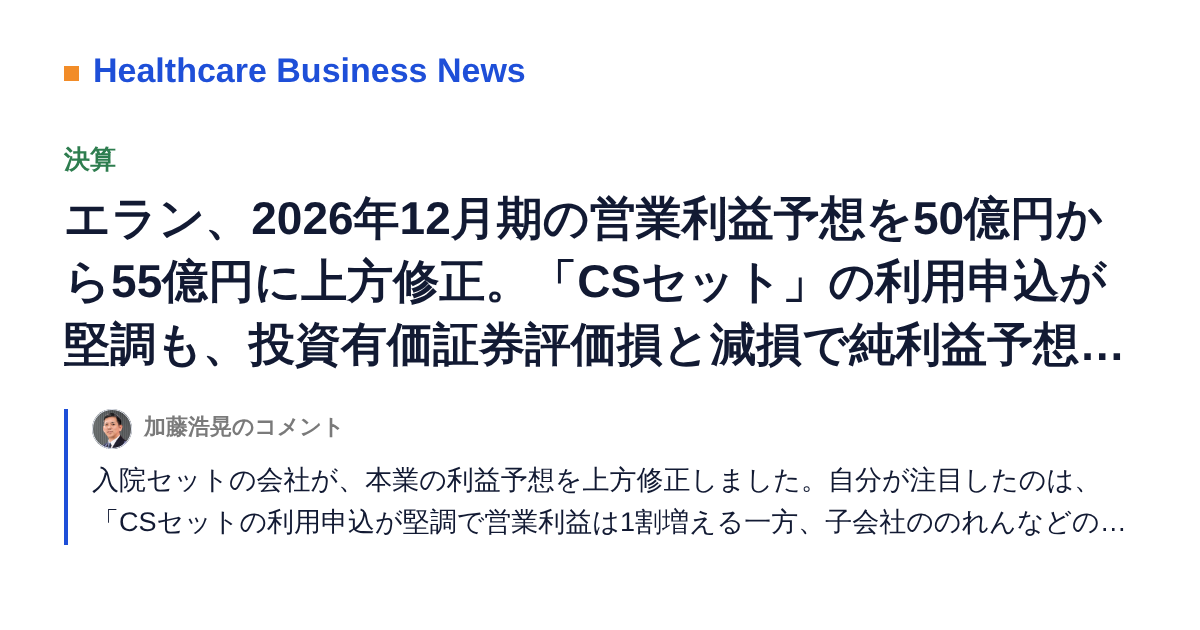
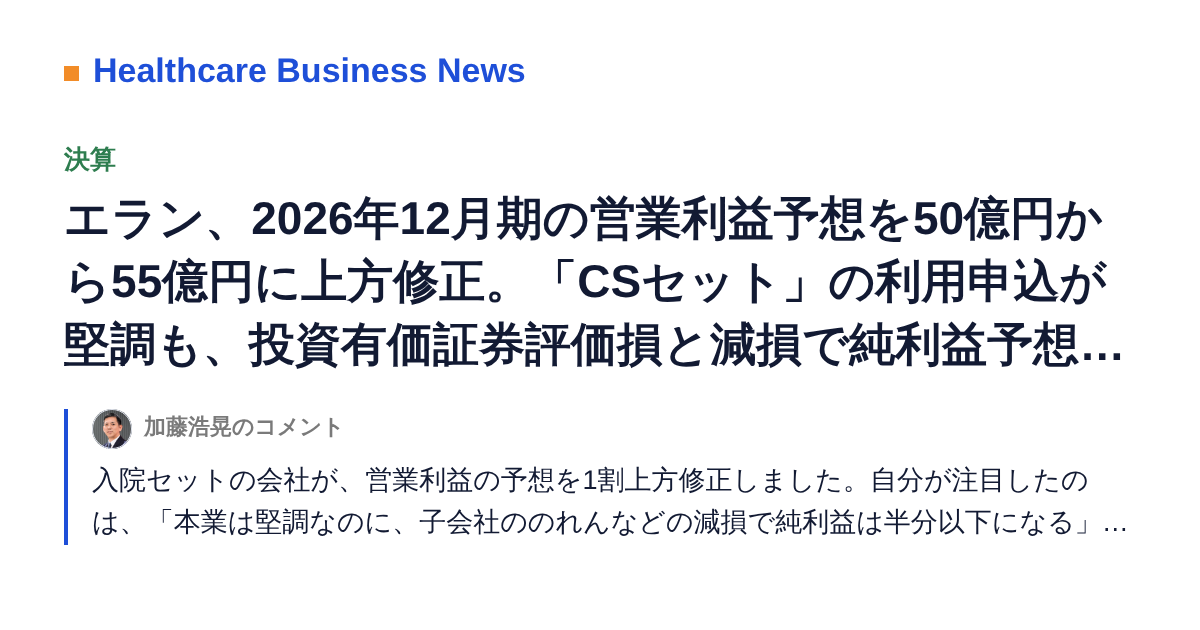
Web: 記事のリンク用カードを更新

Changed region(s): [[0.0617, 0.7238, 0.925, 0.8444]]

diff --git a/article/85dbaeb9-2527-4f65-85ea-9c53b2ee8cb7.html b/article/85dbaeb9-2527-4f65-85ea-9c53b2ee8cb7.html
@@ -447,4 +447,4 @@ input::-webkit-search-cancel-button,input::-webkit-search-decoration,input::-web
 @keyframes r-1pzkwqh{0%{transform:translateY(100%);}100%{transform:translateY(0%);}}
 @keyframes r-imtty0{0%{opacity:0;}100%{opacity:1;}}
 @keyframes r-q67da2{0%{transform:translateX(-100%);}100%{transform:translateX(400%);}}
-@keyframes r-t2lo5v{0%{opacity:1;}100%{opacity:0;}}</style><link rel="stylesheet" href="/healthbiz-news/_expo/static/css/native-tabs.module-78b0f59737571f455720970791a36bdd.css"/><link rel="stylesheet" href="/healthbiz-news/_expo/static/css/global-313a0104f747083fa8b83096f125922a.css"/><link rel="manifest" href="/healthbiz-news/manifest.json"><meta name="apple-mobile-web-app-capable" content="yes"><meta name="mobile-web-app-capable" content="yes"><meta name="apple-mobile-web-app-status-bar-style" content="default"><meta name="apple-mobile-web-app-title" content="HB News"><link rel="apple-touch-icon" href="/healthbiz-news/apple-touch-icon.png"><meta name="theme-color" content="#1E4FD8"><style>.hb-topband{display:none}@media (display-mode: standalone){.hb-topband{display:block;position:fixed;top:0;left:0;right:0;height:12px;background:#FFFFFF;z-index:2147483647;pointer-events:none}}@media (display-mode: standalone) and (prefers-color-scheme: dark){.hb-topband{background:#111214}}</style><script async src="https://www.googletagmanager.com/gtag/js?id=G-PYC7DZRBKW"></script><script>window.dataLayer=window.dataLayer||[];function gtag(){dataLayer.push(arguments);}window.gtag=gtag;gtag('js',new Date());gtag('config','G-PYC7DZRBKW',{send_page_view:false,anonymize_ip:true});</script><title>エラン、2026年12月期の営業利益予想を50億円から55億円に上方修正。「CSセット」の利用申込が堅調も、投資有価証券評価損と減損で純利益予想は32億円から15億円に下げる｜Healthcare Business News</title><meta name="description" content="入院セットの会社が、本業の利益予想を上方修正しました。自分が注目したのは、「CSセットの利用申込が堅調で営業利益は1割増える一方、子会社ののれんなどの減損で純利益は半分以下になる」ところです。本業は施設と患者の両方から選"><meta property="og:type" content="article"><meta property="og:site_name" content="Healthcare Business News"><meta property="og:title" content="エラン、2026年12月期の営業利益予想を50億円から55億円に上方修正。「CSセット」の利用申込が堅調も、投資有価証券評価損と減損で純利益予想は32億円から15億円に下げる"><meta property="og:description" content="入院セットの会社が、本業の利益予想を上方修正しました。自分が注目したのは、「CSセットの利用申込が堅調で営業利益は1割増える一方、子会社ののれんなどの減損で純利益は半分以下になる」ところです。本業は施設と患者の両方から選"><meta property="og:url" content="https://hirokato-med.github.io/healthbiz-news/article/85dbaeb9-2527-4f65-85ea-9c53b2ee8cb7"><meta property="og:image" content="https://hirokato-med.github.io/healthbiz-news/og/85dbaeb9-2527-4f65-85ea-9c53b2ee8cb7.png?v=9a640481ff9f"><meta property="og:image:width" content="1200"><meta property="og:image:height" content="630"><meta name="twitter:card" content="summary_large_image"></head><body><div id="root"><!--$--><div class="css-g5y9jx r-13awgt0"><!--$--><div style="position:absolute;left:0;right:0;top:0;bottom:0;pointer-events:none;visibility:hidden"></div><div class="css-g5y9jx r-13awgt0"><div class="css-g5y9jx r-13awgt0 r-1p0dtai r-1d2f490 r-u8s1d r-zchlnj r-ipm5af" style="background-color:rgba(242,242,242,1.00);display:flex"><div class="css-g5y9jx r-13awgt0"><div class="css-g5y9jx r-13awgt0"><!--$--><div style="position:absolute;left:0;right:0;top:0;bottom:0;pointer-events:none;visibility:hidden"></div><div class="css-g5y9jx r-13awgt0" style="flex-direction:column"><div class="css-g5y9jx r-13awgt0 r-1udh08x"><div class="css-g5y9jx r-1p0dtai r-1d2f490 r-u8s1d r-zchlnj r-ipm5af" style="z-index:0"><div class="css-g5y9jx r-13awgt0" style="background-color:rgba(242,242,242,1.00)"><div class="css-g5y9jx r-13awgt0"><!--$--><div class="css-g5y9jx r-13awgt0" style="background-color:rgba(255,255,255,1.00)"><div class="css-g5y9jx" style="padding-top:18px"><div class="css-g5y9jx"><div class="css-g5y9jx r-1awozwy r-18u37iz r-1wtj0ep r-iphfwy r-3pj75a"><div class="css-g5y9jx"><div dir="auto" class="css-146c3p1 r-b88u0q r-hbpseb r-1i10wst" style="color:rgba(18,26,51,1.00);font-family:var(--font-sans)">Healthcare Business News</div><div dir="auto" class="css-146c3p1 r-1gkfh8e r-1f529hi" style="color:rgba(122,122,122,1.00);font-family:var(--font-sans)">加藤浩晃のヘルスケアビジネスニュース</div></div><div class="css-g5y9jx r-obd0qt r-ojf8lh"><div dir="auto" class="css-146c3p1 r-1enofrn r-1cwl3u0 r-1ghxqbu" style="color:rgba(122,122,122,1.00);font-family:var(--font-sans)">11月14日（土）</div><button aria-label="記事を検索" role="button" tabindex="0" class="css-g5y9jx r-1loqt21 r-1otgn73 r-kdyh1x r-cnw61z r-is05cd" style="background-color:rgba(242,245,253,1.00);opacity:1" type="button"><div dir="auto" class="css-146c3p1 r-1enofrn r-1cwl3u0" style="font-family:var(--font-sans);color:rgba(30,79,216,1.00);font-weight:700">🔍 検索</div></button></div></div><div class="css-g5y9jx r-150rngu r-18u37iz r-1wbh5a2 r-lltvgl r-buy8e9 r-agouwx r-qklmqi r-18kxxzh r-2eszeu" style="border-bottom-color:rgba(227,231,240,1.00)"><div class="css-g5y9jx r-18u37iz r-is05cd"><div role="tab" tabindex="0" class="css-g5y9jx r-1loqt21 r-1otgn73 r-1cmwbt1 r-3o4zer r-ttdzmv"><div dir="auto" class="css-146c3p1 r-a023e6 r-rjixqe" style="font-family:var(--font-sans);color:rgba(30,79,216,1.00);font-weight:700">トップ</div><div class="css-g5y9jx r-1iymjk7 r-s2skl2 r-1hlnpa" style="background-color:rgba(30,79,216,1.00)"></div></div><div role="tab" tabindex="0" class="css-g5y9jx r-1loqt21 r-1otgn73 r-1cmwbt1 r-3o4zer r-ttdzmv"><div dir="auto" class="css-146c3p1 r-a023e6 r-rjixqe" style="font-family:var(--font-sans);color:rgba(122,122,122,1.00);font-weight:500">医療機器</div><div class="css-g5y9jx r-1iymjk7 r-s2skl2 r-1hlnpa" style="background-color:rgba(0,0,0,0.00)"></div></div><div role="tab" tabindex="0" class="css-g5y9jx r-1loqt21 r-1otgn73 r-1cmwbt1 r-3o4zer r-ttdzmv"><div dir="auto" class="css-146c3p1 r-a023e6 r-rjixqe" style="font-family:var(--font-sans);color:rgba(122,122,122,1.00);font-weight:500">ウェアラブル</div><div class="css-g5y9jx r-1iymjk7 r-s2skl2 r-1hlnpa" style="background-color:rgba(0,0,0,0.00)"></div></div><div role="tab" tabindex="0" class="css-g5y9jx r-1loqt21 r-1otgn73 r-1cmwbt1 r-3o4zer r-ttdzmv"><div dir="auto" class="css-146c3p1 r-a023e6 r-rjixqe" style="font-family:var(--font-sans);color:rgba(122,122,122,1.00);font-weight:500">ロンジェビティ</div><div class="css-g5y9jx r-1iymjk7 r-s2skl2 r-1hlnpa" style="background-color:rgba(0,0,0,0.00)"></div></div><div role="tab" tabindex="0" class="css-g5y9jx r-1loqt21 r-1otgn73 r-1cmwbt1 r-3o4zer r-ttdzmv"><div dir="auto" class="css-146c3p1 r-a023e6 r-rjixqe" style="font-family:var(--font-sans);color:rgba(122,122,122,1.00);font-weight:500">製薬・創薬</div><div class="css-g5y9jx r-1iymjk7 r-s2skl2 r-1hlnpa" style="background-color:rgba(0,0,0,0.00)"></div></div><div role="tab" tabindex="0" class="css-g5y9jx r-1loqt21 r-1otgn73 r-1cmwbt1 r-3o4zer r-ttdzmv"><div dir="auto" class="css-146c3p1 r-a023e6 r-rjixqe" style="font-family:var(--font-sans);color:rgba(122,122,122,1.00);font-weight:500">デジタルヘルス</div><div class="css-g5y9jx r-1iymjk7 r-s2skl2 r-1hlnpa" style="background-color:rgba(0,0,0,0.00)"></div></div><div role="tab" tabindex="0" class="css-g5y9jx r-1loqt21 r-1otgn73 r-1cmwbt1 r-3o4zer r-ttdzmv"><div dir="auto" class="css-146c3p1 r-a023e6 r-rjixqe" style="font-family:var(--font-sans);color:rgba(122,122,122,1.00);font-weight:500">医療DX</div><div class="css-g5y9jx r-1iymjk7 r-s2skl2 r-1hlnpa" style="background-color:rgba(0,0,0,0.00)"></div></div><div role="tab" tabindex="0" class="css-g5y9jx r-1loqt21 r-1otgn73 r-1cmwbt1 r-3o4zer r-ttdzmv"><div dir="auto" class="css-146c3p1 r-a023e6 r-rjixqe" style="font-family:var(--font-sans);color:rgba(122,122,122,1.00);font-weight:500">ヘルスケアサービス</div><div class="css-g5y9jx r-1iymjk7 r-s2skl2 r-1hlnpa" style="background-color:rgba(0,0,0,0.00)"></div></div><div role="tab" tabindex="0" class="css-g5y9jx r-1loqt21 r-1otgn73 r-1cmwbt1 r-3o4zer r-ttdzmv"><div dir="auto" class="css-146c3p1 r-a023e6 r-rjixqe" style="font-family:var(--font-sans);color:rgba(122,122,122,1.00);font-weight:500">政策・規制</div><div class="css-g5y9jx r-1iymjk7 r-s2skl2 r-1hlnpa" style="background-color:rgba(0,0,0,0.00)"></div></div><div role="tab" tabindex="0" class="css-g5y9jx r-1loqt21 r-1otgn73 r-1cmwbt1 r-3o4zer r-ttdzmv"><div dir="auto" class="css-146c3p1 r-a023e6 r-rjixqe" style="font-family:var(--font-sans);color:rgba(122,122,122,1.00);font-weight:500">決算</div><div class="css-g5y9jx r-1iymjk7 r-s2skl2 r-1hlnpa" style="background-color:rgba(0,0,0,0.00)"></div></div><div role="tab" tabindex="0" class="css-g5y9jx r-1loqt21 r-1otgn73 r-1cmwbt1 r-3o4zer r-ttdzmv"><div dir="auto" class="css-146c3p1 r-a023e6 r-rjixqe" style="font-family:var(--font-sans);color:rgba(122,122,122,1.00);font-weight:500">海外</div><div class="css-g5y9jx r-1iymjk7 r-s2skl2 r-1hlnpa" style="background-color:rgba(0,0,0,0.00)"></div></div><div role="tab" tabindex="0" class="css-g5y9jx r-1loqt21 r-1otgn73 r-1cmwbt1 r-3o4zer r-ttdzmv"><div dir="auto" class="css-146c3p1 r-a023e6 r-rjixqe" style="font-family:var(--font-sans);color:rgba(122,122,122,1.00);font-weight:500">メルマガ</div><div class="css-g5y9jx r-1iymjk7 r-s2skl2 r-1hlnpa" style="background-color:rgba(0,0,0,0.00)"></div></div></div></div></div><button aria-label="記事を更新" role="button" tabindex="0" class="css-g5y9jx r-1loqt21 r-1otgn73 r-1yd117h r-3pj75a" style="background-color:rgba(242,245,253,1.00)" type="button"><div class="css-g5y9jx r-1awozwy r-18u37iz r-1ssbvtb"><div dir="auto" class="css-146c3p1 r-dnmrzs r-1udh08x r-1udbk01 r-3s2u2q r-1iln25a r-1enofrn r-1cwl3u0" style="color:rgba(122,122,122,1.00);font-family:var(--font-sans)">最新の配信</div><div dir="auto" class="css-146c3p1 r-dnmrzs r-1udh08x r-1udbk01 r-3s2u2q r-1iln25a r-1enofrn r-1cwl3u0 r-13awgt0 r-1ghxqbu r-b88u0q" style="font-family:var(--font-sans);color:rgba(122,122,122,1.00)">読み込み中…</div><div dir="auto" class="css-146c3p1 r-dnmrzs r-1udh08x r-1udbk01 r-3s2u2q r-1iln25a r-1enofrn r-1cwl3u0 r-1ghxqbu" style="color:rgba(122,122,122,1.00);font-family:var(--font-sans)"></div></div></button></div><div class="css-g5y9jx r-13awgt0"></div></div><!--/$--></div></div></div></div><div class="css-g5y9jx r-1p0dtai r-zchlnj r-1d2f490" style="pointer-events:auto;border-top-width:1px;border-right-color:rgba(216,216,216,1.00);border-bottom-color:rgba(216,216,216,1.00);border-left-color:rgba(216,216,216,1.00);height:49px;padding-bottom:0px;padding-top:0px;padding-right:0px;padding-left:0px;background-color:rgba(255,255,255,1.00);border-top-color:rgba(227,231,240,1.00);transform:translateY(0px)"><div class="css-g5y9jx r-1p0dtai r-1d2f490 r-u8s1d r-zchlnj r-ipm5af r-633pao"></div><div role="tablist" class="css-g5y9jx r-13awgt0 r-18u37iz"><div class="css-g5y9jx r-13awgt0" style="border-top-left-radius:0px;border-top-right-radius:0px;border-bottom-right-radius:0px;border-bottom-left-radius:0px;overflow-x:visible;overflow-y:visible"><a href="/healthbiz-news/" role="tab" aria-selected="true" tabindex="0" class="css-g5y9jx r-1otgn73 r-1awozwy r-1onu96p r-eqz5dr r-1h0z5md r-1uu6nss" style="cursor:pointer;flex:1;background-color:rgba(0,0,0,0.00);border-top-left-radius:0px;border-top-right-radius:0px;border-bottom-right-radius:0px;border-bottom-left-radius:0px;opacity:1"><div class="css-g5y9jx r-h0d30l r-726pan"><div class="css-g5y9jx r-1awozwy r-1kihuf0 r-1pi2tsx r-1777fci r-u8s1d r-13qz1uu" style="opacity:1;min-width:25px"><div dir="auto" class="css-146c3p1" style="color:rgba(30,79,216,1.00);font-size:18px">▤</div></div><div class="css-g5y9jx r-1awozwy r-1kihuf0 r-1pi2tsx r-1777fci r-u8s1d r-13qz1uu" style="opacity:0"><div dir="auto" class="css-146c3p1" style="color:rgba(122,122,122,1.00);font-size:18px">▤</div></div></div><div dir="auto" class="css-146c3p1 r-dnmrzs r-1udh08x r-1udbk01 r-3s2u2q r-1iln25a r-1niwhzg r-q4m81j r-10x49cs" style="color:rgba(30,79,216,1.00);font-family:system-ui, &quot;Segoe UI&quot;, Roboto, Helvetica, Arial, sans-serif, &quot;Apple Color Emoji&quot;, &quot;Segoe UI Emoji&quot;, &quot;Segoe UI Symbol&quot;;font-weight:500">トップ</div></a></div><div class="css-g5y9jx r-13awgt0" style="border-top-left-radius:0px;border-top-right-radius:0px;border-bottom-right-radius:0px;border-bottom-left-radius:0px;overflow-x:visible;overflow-y:visible"><a href="/healthbiz-news/saved" role="tab" aria-selected="false" tabindex="0" class="css-g5y9jx r-1otgn73 r-1awozwy r-1onu96p r-eqz5dr r-1h0z5md r-1uu6nss" style="cursor:pointer;flex:1;background-color:rgba(0,0,0,0.00);border-top-left-radius:0px;border-top-right-radius:0px;border-bottom-right-radius:0px;border-bottom-left-radius:0px;opacity:1"><div class="css-g5y9jx r-h0d30l r-726pan"><div class="css-g5y9jx r-1awozwy r-1kihuf0 r-1pi2tsx r-1777fci r-u8s1d r-13qz1uu" style="opacity:0;min-width:25px"><div dir="auto" class="css-146c3p1" style="color:rgba(30,79,216,1.00);font-size:18px">☆</div></div><div class="css-g5y9jx r-1awozwy r-1kihuf0 r-1pi2tsx r-1777fci r-u8s1d r-13qz1uu" style="opacity:1"><div dir="auto" class="css-146c3p1" style="color:rgba(122,122,122,1.00);font-size:18px">☆</div></div></div><div dir="auto" class="css-146c3p1 r-dnmrzs r-1udh08x r-1udbk01 r-3s2u2q r-1iln25a r-1niwhzg r-q4m81j r-10x49cs" style="color:rgba(122,122,122,1.00);font-family:system-ui, &quot;Segoe UI&quot;, Roboto, Helvetica, Arial, sans-serif, &quot;Apple Color Emoji&quot;, &quot;Segoe UI Emoji&quot;, &quot;Segoe UI Symbol&quot;;font-weight:500">保存</div></a></div><div class="css-g5y9jx r-13awgt0" style="border-top-left-radius:0px;border-top-right-radius:0px;border-bottom-right-radius:0px;border-bottom-left-radius:0px;overflow-x:visible;overflow-y:visible"><a href="/healthbiz-news/about" role="tab" aria-selected="false" tabindex="0" class="css-g5y9jx r-1otgn73 r-1awozwy r-1onu96p r-eqz5dr r-1h0z5md r-1uu6nss" style="cursor:pointer;flex:1;background-color:rgba(0,0,0,0.00);border-top-left-radius:0px;border-top-right-radius:0px;border-bottom-right-radius:0px;border-bottom-left-radius:0px;opacity:1"><div class="css-g5y9jx r-h0d30l r-726pan"><div class="css-g5y9jx r-1awozwy r-1kihuf0 r-1pi2tsx r-1777fci r-u8s1d r-13qz1uu" style="opacity:0;min-width:25px"><div dir="auto" class="css-146c3p1" style="color:rgba(30,79,216,1.00);font-size:18px">ⓘ</div></div><div class="css-g5y9jx r-1awozwy r-1kihuf0 r-1pi2tsx r-1777fci r-u8s1d r-13qz1uu" style="opacity:1"><div dir="auto" class="css-146c3p1" style="color:rgba(122,122,122,1.00);font-size:18px">ⓘ</div></div></div><div dir="auto" class="css-146c3p1 r-dnmrzs r-1udh08x r-1udbk01 r-3s2u2q r-1iln25a r-1niwhzg r-q4m81j r-10x49cs" style="color:rgba(122,122,122,1.00);font-family:system-ui, &quot;Segoe UI&quot;, Roboto, Helvetica, Arial, sans-serif, &quot;Apple Color Emoji&quot;, &quot;Segoe UI Emoji&quot;, &quot;Segoe UI Symbol&quot;;font-weight:500">このアプリ</div></a></div></div></div></div><!--/$--></div></div></div></div><!--/$--></div><!--/$--></div><script defer="" src="/healthbiz-news/_expo/static/js/web/__expo-metro-runtime-8c088df87a31e4e6accd81c554ec290d.js"></script><script defer="" src="/healthbiz-news/_expo/static/js/web/_layout-b9aab1fa9006b441d7601c25dd7ca37c.js"></script><script defer="" src="/healthbiz-news/_expo/static/js/web/_layout-8aafe5f985152c330af6f81e3dc0b4ce.js"></script><script defer="" src="/healthbiz-news/_expo/static/js/web/index-f62bc68591a5a53b5ec6327f08ef224e.js"></script><script defer="" src="/healthbiz-news/_expo/static/js/web/__common-1efa4f8851c3c26c5733a85f7bb25840.js"></script><script defer="" src="/healthbiz-news/_expo/static/js/web/entry-9b5d24407d312d65f34d2b1d7c96e683.js"></script><script id="_R_">globalThis.__EXPO_ROUTER_HYDRATE__=true;</script><div class="hb-topband" aria-hidden="true"></div></body></html>
+@keyframes r-t2lo5v{0%{opacity:1;}100%{opacity:0;}}</style><link rel="stylesheet" href="/healthbiz-news/_expo/static/css/native-tabs.module-78b0f59737571f455720970791a36bdd.css"/><link rel="stylesheet" href="/healthbiz-news/_expo/static/css/global-313a0104f747083fa8b83096f125922a.css"/><link rel="manifest" href="/healthbiz-news/manifest.json"><meta name="apple-mobile-web-app-capable" content="yes"><meta name="mobile-web-app-capable" content="yes"><meta name="apple-mobile-web-app-status-bar-style" content="default"><meta name="apple-mobile-web-app-title" content="HB News"><link rel="apple-touch-icon" href="/healthbiz-news/apple-touch-icon.png"><meta name="theme-color" content="#1E4FD8"><style>.hb-topband{display:none}@media (display-mode: standalone){.hb-topband{display:block;position:fixed;top:0;left:0;right:0;height:12px;background:#FFFFFF;z-index:2147483647;pointer-events:none}}@media (display-mode: standalone) and (prefers-color-scheme: dark){.hb-topband{background:#111214}}</style><script async src="https://www.googletagmanager.com/gtag/js?id=G-PYC7DZRBKW"></script><script>window.dataLayer=window.dataLayer||[];function gtag(){dataLayer.push(arguments);}window.gtag=gtag;gtag('js',new Date());gtag('config','G-PYC7DZRBKW',{send_page_view:false,anonymize_ip:true});</script><title>エラン、2026年12月期の営業利益予想を50億円から55億円に上方修正。「CSセット」の利用申込が堅調も、投資有価証券評価損と減損で純利益予想は32億円から15億円に下げる｜Healthcare Business News</title><meta name="description" content="入院セットの会社が、営業利益の予想を1割上方修正しました。自分が注目したのは、「本業は堅調なのに、子会社ののれんなどの減損で純利益は半分以下になる」ところです。買収した事業の見直しが今期の課題だと思います。"><meta property="og:type" content="article"><meta property="og:site_name" content="Healthcare Business News"><meta property="og:title" content="エラン、2026年12月期の営業利益予想を50億円から55億円に上方修正。「CSセット」の利用申込が堅調も、投資有価証券評価損と減損で純利益予想は32億円から15億円に下げる"><meta property="og:description" content="入院セットの会社が、営業利益の予想を1割上方修正しました。自分が注目したのは、「本業は堅調なのに、子会社ののれんなどの減損で純利益は半分以下になる」ところです。買収した事業の見直しが今期の課題だと思います。"><meta property="og:url" content="https://hirokato-med.github.io/healthbiz-news/article/85dbaeb9-2527-4f65-85ea-9c53b2ee8cb7"><meta property="og:image" content="https://hirokato-med.github.io/healthbiz-news/og/85dbaeb9-2527-4f65-85ea-9c53b2ee8cb7.png?v=58fbdf598b25"><meta property="og:image:width" content="1200"><meta property="og:image:height" content="630"><meta name="twitter:card" content="summary_large_image"></head><body><div id="root"><!--$--><div class="css-g5y9jx r-13awgt0"><!--$--><div style="position:absolute;left:0;right:0;top:0;bottom:0;pointer-events:none;visibility:hidden"></div><div class="css-g5y9jx r-13awgt0"><div class="css-g5y9jx r-13awgt0 r-1p0dtai r-1d2f490 r-u8s1d r-zchlnj r-ipm5af" style="background-color:rgba(242,242,242,1.00);display:flex"><div class="css-g5y9jx r-13awgt0"><div class="css-g5y9jx r-13awgt0"><!--$--><div style="position:absolute;left:0;right:0;top:0;bottom:0;pointer-events:none;visibility:hidden"></div><div class="css-g5y9jx r-13awgt0" style="flex-direction:column"><div class="css-g5y9jx r-13awgt0 r-1udh08x"><div class="css-g5y9jx r-1p0dtai r-1d2f490 r-u8s1d r-zchlnj r-ipm5af" style="z-index:0"><div class="css-g5y9jx r-13awgt0" style="background-color:rgba(242,242,242,1.00)"><div class="css-g5y9jx r-13awgt0"><!--$--><div class="css-g5y9jx r-13awgt0" style="background-color:rgba(255,255,255,1.00)"><div class="css-g5y9jx" style="padding-top:18px"><div class="css-g5y9jx"><div class="css-g5y9jx r-1awozwy r-18u37iz r-1wtj0ep r-iphfwy r-3pj75a"><div class="css-g5y9jx"><div dir="auto" class="css-146c3p1 r-b88u0q r-hbpseb r-1i10wst" style="color:rgba(18,26,51,1.00);font-family:var(--font-sans)">Healthcare Business News</div><div dir="auto" class="css-146c3p1 r-1gkfh8e r-1f529hi" style="color:rgba(122,122,122,1.00);font-family:var(--font-sans)">加藤浩晃のヘルスケアビジネスニュース</div></div><div class="css-g5y9jx r-obd0qt r-ojf8lh"><div dir="auto" class="css-146c3p1 r-1enofrn r-1cwl3u0 r-1ghxqbu" style="color:rgba(122,122,122,1.00);font-family:var(--font-sans)">11月14日（土）</div><button aria-label="記事を検索" role="button" tabindex="0" class="css-g5y9jx r-1loqt21 r-1otgn73 r-kdyh1x r-cnw61z r-is05cd" style="background-color:rgba(242,245,253,1.00);opacity:1" type="button"><div dir="auto" class="css-146c3p1 r-1enofrn r-1cwl3u0" style="font-family:var(--font-sans);color:rgba(30,79,216,1.00);font-weight:700">🔍 検索</div></button></div></div><div class="css-g5y9jx r-150rngu r-18u37iz r-1wbh5a2 r-lltvgl r-buy8e9 r-agouwx r-qklmqi r-18kxxzh r-2eszeu" style="border-bottom-color:rgba(227,231,240,1.00)"><div class="css-g5y9jx r-18u37iz r-is05cd"><div role="tab" tabindex="0" class="css-g5y9jx r-1loqt21 r-1otgn73 r-1cmwbt1 r-3o4zer r-ttdzmv"><div dir="auto" class="css-146c3p1 r-a023e6 r-rjixqe" style="font-family:var(--font-sans);color:rgba(30,79,216,1.00);font-weight:700">トップ</div><div class="css-g5y9jx r-1iymjk7 r-s2skl2 r-1hlnpa" style="background-color:rgba(30,79,216,1.00)"></div></div><div role="tab" tabindex="0" class="css-g5y9jx r-1loqt21 r-1otgn73 r-1cmwbt1 r-3o4zer r-ttdzmv"><div dir="auto" class="css-146c3p1 r-a023e6 r-rjixqe" style="font-family:var(--font-sans);color:rgba(122,122,122,1.00);font-weight:500">医療機器</div><div class="css-g5y9jx r-1iymjk7 r-s2skl2 r-1hlnpa" style="background-color:rgba(0,0,0,0.00)"></div></div><div role="tab" tabindex="0" class="css-g5y9jx r-1loqt21 r-1otgn73 r-1cmwbt1 r-3o4zer r-ttdzmv"><div dir="auto" class="css-146c3p1 r-a023e6 r-rjixqe" style="font-family:var(--font-sans);color:rgba(122,122,122,1.00);font-weight:500">ウェアラブル</div><div class="css-g5y9jx r-1iymjk7 r-s2skl2 r-1hlnpa" style="background-color:rgba(0,0,0,0.00)"></div></div><div role="tab" tabindex="0" class="css-g5y9jx r-1loqt21 r-1otgn73 r-1cmwbt1 r-3o4zer r-ttdzmv"><div dir="auto" class="css-146c3p1 r-a023e6 r-rjixqe" style="font-family:var(--font-sans);color:rgba(122,122,122,1.00);font-weight:500">ロンジェビティ</div><div class="css-g5y9jx r-1iymjk7 r-s2skl2 r-1hlnpa" style="background-color:rgba(0,0,0,0.00)"></div></div><div role="tab" tabindex="0" class="css-g5y9jx r-1loqt21 r-1otgn73 r-1cmwbt1 r-3o4zer r-ttdzmv"><div dir="auto" class="css-146c3p1 r-a023e6 r-rjixqe" style="font-family:var(--font-sans);color:rgba(122,122,122,1.00);font-weight:500">製薬・創薬</div><div class="css-g5y9jx r-1iymjk7 r-s2skl2 r-1hlnpa" style="background-color:rgba(0,0,0,0.00)"></div></div><div role="tab" tabindex="0" class="css-g5y9jx r-1loqt21 r-1otgn73 r-1cmwbt1 r-3o4zer r-ttdzmv"><div dir="auto" class="css-146c3p1 r-a023e6 r-rjixqe" style="font-family:var(--font-sans);color:rgba(122,122,122,1.00);font-weight:500">デジタルヘルス</div><div class="css-g5y9jx r-1iymjk7 r-s2skl2 r-1hlnpa" style="background-color:rgba(0,0,0,0.00)"></div></div><div role="tab" tabindex="0" class="css-g5y9jx r-1loqt21 r-1otgn73 r-1cmwbt1 r-3o4zer r-ttdzmv"><div dir="auto" class="css-146c3p1 r-a023e6 r-rjixqe" style="font-family:var(--font-sans);color:rgba(122,122,122,1.00);font-weight:500">医療DX</div><div class="css-g5y9jx r-1iymjk7 r-s2skl2 r-1hlnpa" style="background-color:rgba(0,0,0,0.00)"></div></div><div role="tab" tabindex="0" class="css-g5y9jx r-1loqt21 r-1otgn73 r-1cmwbt1 r-3o4zer r-ttdzmv"><div dir="auto" class="css-146c3p1 r-a023e6 r-rjixqe" style="font-family:var(--font-sans);color:rgba(122,122,122,1.00);font-weight:500">ヘルスケアサービス</div><div class="css-g5y9jx r-1iymjk7 r-s2skl2 r-1hlnpa" style="background-color:rgba(0,0,0,0.00)"></div></div><div role="tab" tabindex="0" class="css-g5y9jx r-1loqt21 r-1otgn73 r-1cmwbt1 r-3o4zer r-ttdzmv"><div dir="auto" class="css-146c3p1 r-a023e6 r-rjixqe" style="font-family:var(--font-sans);color:rgba(122,122,122,1.00);font-weight:500">政策・規制</div><div class="css-g5y9jx r-1iymjk7 r-s2skl2 r-1hlnpa" style="background-color:rgba(0,0,0,0.00)"></div></div><div role="tab" tabindex="0" class="css-g5y9jx r-1loqt21 r-1otgn73 r-1cmwbt1 r-3o4zer r-ttdzmv"><div dir="auto" class="css-146c3p1 r-a023e6 r-rjixqe" style="font-family:var(--font-sans);color:rgba(122,122,122,1.00);font-weight:500">決算</div><div class="css-g5y9jx r-1iymjk7 r-s2skl2 r-1hlnpa" style="background-color:rgba(0,0,0,0.00)"></div></div><div role="tab" tabindex="0" class="css-g5y9jx r-1loqt21 r-1otgn73 r-1cmwbt1 r-3o4zer r-ttdzmv"><div dir="auto" class="css-146c3p1 r-a023e6 r-rjixqe" style="font-family:var(--font-sans);color:rgba(122,122,122,1.00);font-weight:500">海外</div><div class="css-g5y9jx r-1iymjk7 r-s2skl2 r-1hlnpa" style="background-color:rgba(0,0,0,0.00)"></div></div><div role="tab" tabindex="0" class="css-g5y9jx r-1loqt21 r-1otgn73 r-1cmwbt1 r-3o4zer r-ttdzmv"><div dir="auto" class="css-146c3p1 r-a023e6 r-rjixqe" style="font-family:var(--font-sans);color:rgba(122,122,122,1.00);font-weight:500">メルマガ</div><div class="css-g5y9jx r-1iymjk7 r-s2skl2 r-1hlnpa" style="background-color:rgba(0,0,0,0.00)"></div></div></div></div></div><button aria-label="記事を更新" role="button" tabindex="0" class="css-g5y9jx r-1loqt21 r-1otgn73 r-1yd117h r-3pj75a" style="background-color:rgba(242,245,253,1.00)" type="button"><div class="css-g5y9jx r-1awozwy r-18u37iz r-1ssbvtb"><div dir="auto" class="css-146c3p1 r-dnmrzs r-1udh08x r-1udbk01 r-3s2u2q r-1iln25a r-1enofrn r-1cwl3u0" style="color:rgba(122,122,122,1.00);font-family:var(--font-sans)">最新の配信</div><div dir="auto" class="css-146c3p1 r-dnmrzs r-1udh08x r-1udbk01 r-3s2u2q r-1iln25a r-1enofrn r-1cwl3u0 r-13awgt0 r-1ghxqbu r-b88u0q" style="font-family:var(--font-sans);color:rgba(122,122,122,1.00)">読み込み中…</div><div dir="auto" class="css-146c3p1 r-dnmrzs r-1udh08x r-1udbk01 r-3s2u2q r-1iln25a r-1enofrn r-1cwl3u0 r-1ghxqbu" style="color:rgba(122,122,122,1.00);font-family:var(--font-sans)"></div></div></button></div><div class="css-g5y9jx r-13awgt0"></div></div><!--/$--></div></div></div></div><div class="css-g5y9jx r-1p0dtai r-zchlnj r-1d2f490" style="pointer-events:auto;border-top-width:1px;border-right-color:rgba(216,216,216,1.00);border-bottom-color:rgba(216,216,216,1.00);border-left-color:rgba(216,216,216,1.00);height:49px;padding-bottom:0px;padding-top:0px;padding-right:0px;padding-left:0px;background-color:rgba(255,255,255,1.00);border-top-color:rgba(227,231,240,1.00);transform:translateY(0px)"><div class="css-g5y9jx r-1p0dtai r-1d2f490 r-u8s1d r-zchlnj r-ipm5af r-633pao"></div><div role="tablist" class="css-g5y9jx r-13awgt0 r-18u37iz"><div class="css-g5y9jx r-13awgt0" style="border-top-left-radius:0px;border-top-right-radius:0px;border-bottom-right-radius:0px;border-bottom-left-radius:0px;overflow-x:visible;overflow-y:visible"><a href="/healthbiz-news/" role="tab" aria-selected="true" tabindex="0" class="css-g5y9jx r-1otgn73 r-1awozwy r-1onu96p r-eqz5dr r-1h0z5md r-1uu6nss" style="cursor:pointer;flex:1;background-color:rgba(0,0,0,0.00);border-top-left-radius:0px;border-top-right-radius:0px;border-bottom-right-radius:0px;border-bottom-left-radius:0px;opacity:1"><div class="css-g5y9jx r-h0d30l r-726pan"><div class="css-g5y9jx r-1awozwy r-1kihuf0 r-1pi2tsx r-1777fci r-u8s1d r-13qz1uu" style="opacity:1;min-width:25px"><div dir="auto" class="css-146c3p1" style="color:rgba(30,79,216,1.00);font-size:18px">▤</div></div><div class="css-g5y9jx r-1awozwy r-1kihuf0 r-1pi2tsx r-1777fci r-u8s1d r-13qz1uu" style="opacity:0"><div dir="auto" class="css-146c3p1" style="color:rgba(122,122,122,1.00);font-size:18px">▤</div></div></div><div dir="auto" class="css-146c3p1 r-dnmrzs r-1udh08x r-1udbk01 r-3s2u2q r-1iln25a r-1niwhzg r-q4m81j r-10x49cs" style="color:rgba(30,79,216,1.00);font-family:system-ui, &quot;Segoe UI&quot;, Roboto, Helvetica, Arial, sans-serif, &quot;Apple Color Emoji&quot;, &quot;Segoe UI Emoji&quot;, &quot;Segoe UI Symbol&quot;;font-weight:500">トップ</div></a></div><div class="css-g5y9jx r-13awgt0" style="border-top-left-radius:0px;border-top-right-radius:0px;border-bottom-right-radius:0px;border-bottom-left-radius:0px;overflow-x:visible;overflow-y:visible"><a href="/healthbiz-news/saved" role="tab" aria-selected="false" tabindex="0" class="css-g5y9jx r-1otgn73 r-1awozwy r-1onu96p r-eqz5dr r-1h0z5md r-1uu6nss" style="cursor:pointer;flex:1;background-color:rgba(0,0,0,0.00);border-top-left-radius:0px;border-top-right-radius:0px;border-bottom-right-radius:0px;border-bottom-left-radius:0px;opacity:1"><div class="css-g5y9jx r-h0d30l r-726pan"><div class="css-g5y9jx r-1awozwy r-1kihuf0 r-1pi2tsx r-1777fci r-u8s1d r-13qz1uu" style="opacity:0;min-width:25px"><div dir="auto" class="css-146c3p1" style="color:rgba(30,79,216,1.00);font-size:18px">☆</div></div><div class="css-g5y9jx r-1awozwy r-1kihuf0 r-1pi2tsx r-1777fci r-u8s1d r-13qz1uu" style="opacity:1"><div dir="auto" class="css-146c3p1" style="color:rgba(122,122,122,1.00);font-size:18px">☆</div></div></div><div dir="auto" class="css-146c3p1 r-dnmrzs r-1udh08x r-1udbk01 r-3s2u2q r-1iln25a r-1niwhzg r-q4m81j r-10x49cs" style="color:rgba(122,122,122,1.00);font-family:system-ui, &quot;Segoe UI&quot;, Roboto, Helvetica, Arial, sans-serif, &quot;Apple Color Emoji&quot;, &quot;Segoe UI Emoji&quot;, &quot;Segoe UI Symbol&quot;;font-weight:500">保存</div></a></div><div class="css-g5y9jx r-13awgt0" style="border-top-left-radius:0px;border-top-right-radius:0px;border-bottom-right-radius:0px;border-bottom-left-radius:0px;overflow-x:visible;overflow-y:visible"><a href="/healthbiz-news/about" role="tab" aria-selected="false" tabindex="0" class="css-g5y9jx r-1otgn73 r-1awozwy r-1onu96p r-eqz5dr r-1h0z5md r-1uu6nss" style="cursor:pointer;flex:1;background-color:rgba(0,0,0,0.00);border-top-left-radius:0px;border-top-right-radius:0px;border-bottom-right-radius:0px;border-bottom-left-radius:0px;opacity:1"><div class="css-g5y9jx r-h0d30l r-726pan"><div class="css-g5y9jx r-1awozwy r-1kihuf0 r-1pi2tsx r-1777fci r-u8s1d r-13qz1uu" style="opacity:0;min-width:25px"><div dir="auto" class="css-146c3p1" style="color:rgba(30,79,216,1.00);font-size:18px">ⓘ</div></div><div class="css-g5y9jx r-1awozwy r-1kihuf0 r-1pi2tsx r-1777fci r-u8s1d r-13qz1uu" style="opacity:1"><div dir="auto" class="css-146c3p1" style="color:rgba(122,122,122,1.00);font-size:18px">ⓘ</div></div></div><div dir="auto" class="css-146c3p1 r-dnmrzs r-1udh08x r-1udbk01 r-3s2u2q r-1iln25a r-1niwhzg r-q4m81j r-10x49cs" style="color:rgba(122,122,122,1.00);font-family:system-ui, &quot;Segoe UI&quot;, Roboto, Helvetica, Arial, sans-serif, &quot;Apple Color Emoji&quot;, &quot;Segoe UI Emoji&quot;, &quot;Segoe UI Symbol&quot;;font-weight:500">このアプリ</div></a></div></div></div></div><!--/$--></div></div></div></div><!--/$--></div><!--/$--></div><script defer="" src="/healthbiz-news/_expo/static/js/web/__expo-metro-runtime-8c088df87a31e4e6accd81c554ec290d.js"></script><script defer="" src="/healthbiz-news/_expo/static/js/web/_layout-b9aab1fa9006b441d7601c25dd7ca37c.js"></script><script defer="" src="/healthbiz-news/_expo/static/js/web/_layout-8aafe5f985152c330af6f81e3dc0b4ce.js"></script><script defer="" src="/healthbiz-news/_expo/static/js/web/index-f62bc68591a5a53b5ec6327f08ef224e.js"></script><script defer="" src="/healthbiz-news/_expo/static/js/web/__common-1efa4f8851c3c26c5733a85f7bb25840.js"></script><script defer="" src="/healthbiz-news/_expo/static/js/web/entry-9b5d24407d312d65f34d2b1d7c96e683.js"></script><script id="_R_">globalThis.__EXPO_ROUTER_HYDRATE__=true;</script><div class="hb-topband" aria-hidden="true"></div></body></html>
